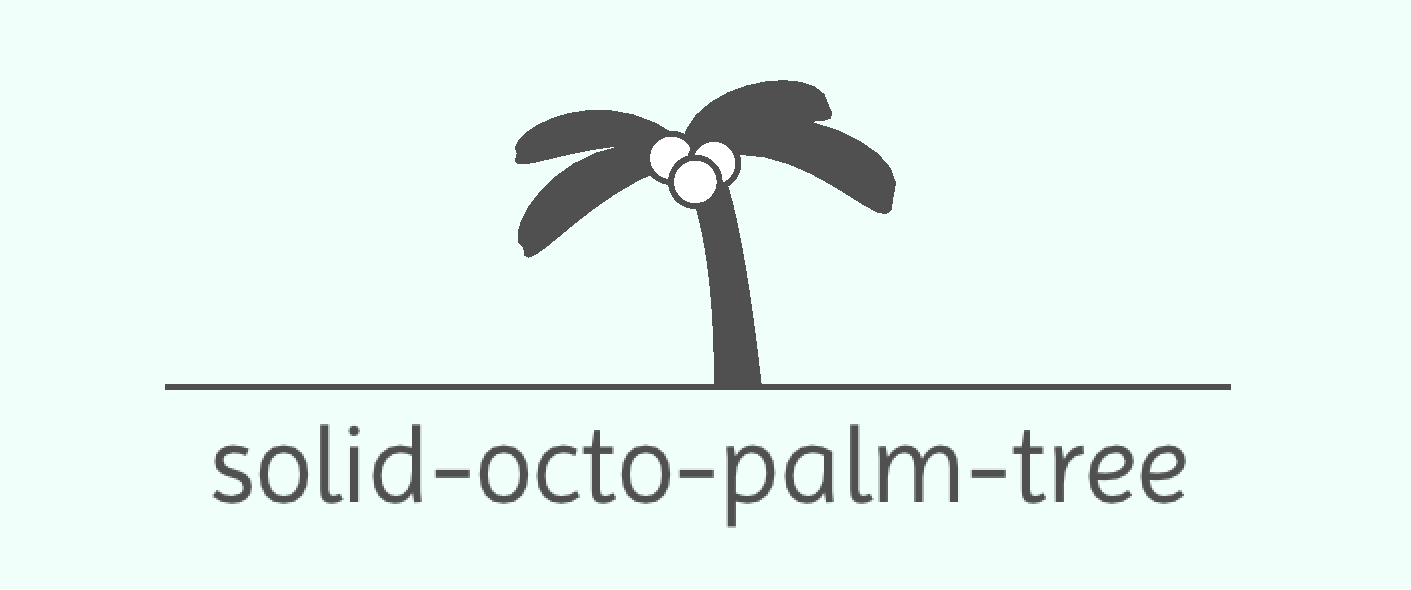
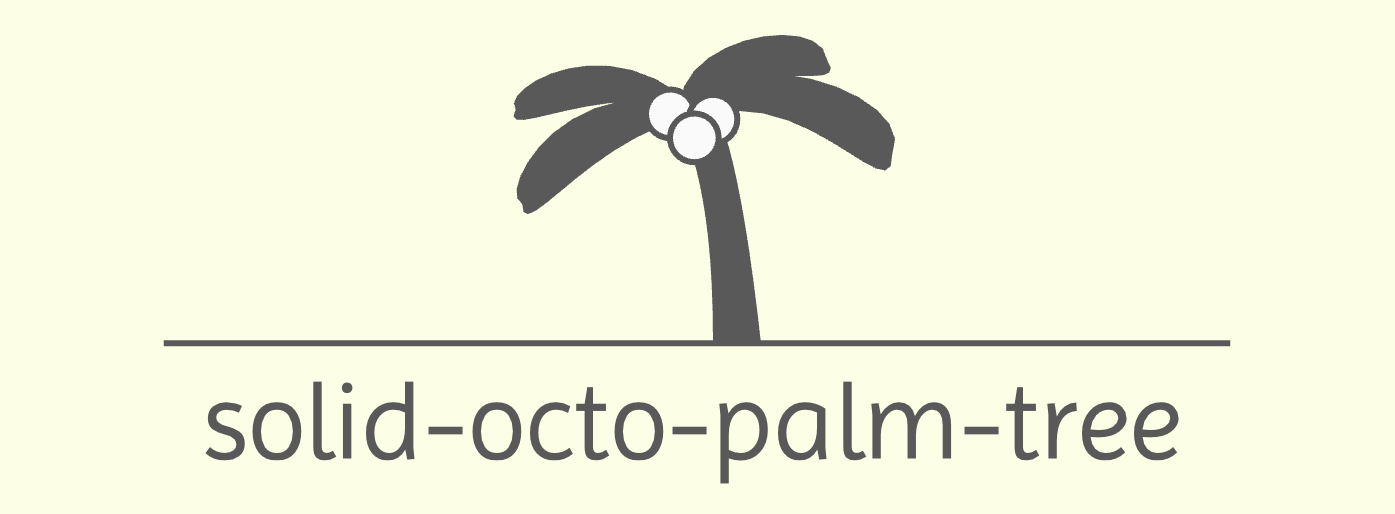
:art: Add palette

Changed region(s): [[0.0925, 0.0623, 0.8939, 0.6848], [0.1233, 0.716, 0.8631, 0.9339]]

diff --git a/painter/pal.css b/painter/pal.css
@@ -1,0 +1,1 @@
+.main-color .palette-blue-1{background:#e6f7ff}.main-color .palette-blue-2{background:#bae7ff}.main-color .palette-blue-3{background:#91d5ff}.main-color .palette-blue-4{background:#69c0ff}.main-color .palette-blue-5{background:#40a9ff}.main-color .palette-blue-6{background:#1890ff}.main-color .palette-blue-7{background:#096dd9}.main-color .palette-blue-8{background:#0050b3}.main-color .palette-blue-9{background:#003a8c}.main-color .palette-blue-10{background:#002766}.main-color .palette-purple-1{background:#f9f0ff}.main-color .palette-purple-2{background:#efdbff}.main-color .palette-purple-3{background:#d3adf7}.main-color .palette-purple-4{background:#b37feb}.main-color .palette-purple-5{background:#9254de}.main-color .palette-purple-6{background:#722ed1}.main-color .palette-purple-7{background:#531dab}.main-color .palette-purple-8{background:#391085}.main-color .palette-purple-9{background:#22075e}.main-color .palette-purple-10{background:#120338}.main-color .palette-cyan-1{background:#e6fffb}.main-color .palette-cyan-2{background:#b5f5ec}.main-color .palette-cyan-3{background:#87e8de}.main-color .palette-cyan-4{background:#5cdbd3}.main-color .palette-cyan-5{background:#36cfc9}.main-color .palette-cyan-6{background:#13c2c2}.main-color .palette-cyan-7{background:#08979c}.main-color .palette-cyan-8{background:#006d75}.main-color .palette-cyan-9{background:#00474f}.main-color .palette-cyan-10{background:#002329}.main-color .palette-green-1{background:#f6ffed}.main-color .palette-green-2{background:#d9f7be}.main-color .palette-green-3{background:#b7eb8f}.main-color .palette-green-4{background:#95de64}.main-color .palette-green-5{background:#73d13d}.main-color .palette-green-6{background:#52c41a}.main-color .palette-green-7{background:#389e0d}.main-color .palette-green-8{background:#237804}.main-color .palette-green-9{background:#135200}.main-color .palette-green-10{background:#092b00}.main-color .palette-magenta-1{background:#fff0f6}.main-color .palette-magenta-2{background:#ffd6e7}.main-color .palette-magenta-3{background:#ffadd2}.main-color .palette-magenta-4{background:#ff85c0}.main-color .palette-magenta-5{background:#f759ab}.main-color .palette-magenta-6{background:#eb2f96}.main-color .palette-magenta-7{background:#c41d7f}.main-color .palette-magenta-8{background:#9e1068}.main-color .palette-magenta-9{background:#780650}.main-color .palette-magenta-10{background:#520339}.main-color .palette-red-1{background:#fff1f0}.main-color .palette-red-2{background:#ffccc7}.main-color .palette-red-3{background:#ffa39e}.main-color .palette-red-4{background:#ff7875}.main-color .palette-red-5{background:#ff4d4f}.main-color .palette-red-6{background:#f5222d}.main-color .palette-red-7{background:#cf1322}.main-color .palette-red-8{background:#a8071a}.main-color .palette-red-9{background:#820014}.main-color .palette-red-10{background:#5c0011}.main-color .palette-volcano-1{background:#fff2e8}.main-color .palette-volcano-2{background:#ffd8bf}.main-color .palette-volcano-3{background:#ffbb96}.main-color .palette-volcano-4{background:#ff9c6e}.main-color .palette-volcano-5{background:#ff7a45}.main-color .palette-volcano-6{background:#fa541c}.main-color .palette-volcano-7{background:#d4380d}.main-color .palette-volcano-8{background:#ad2102}.main-color .palette-volcano-9{background:#871400}.main-color .palette-volcano-10{background:#610b00}.main-color .palette-orange-1{background:#fff7e6}.main-color .palette-orange-2{background:#ffe7ba}.main-color .palette-orange-3{background:#ffd591}.main-color .palette-orange-4{background:#ffc069}.main-color .palette-orange-5{background:#ffa940}.main-color .palette-orange-6{background:#fa8c16}.main-color .palette-orange-7{background:#d46b08}.main-color .palette-orange-8{background:#ad4e00}.main-color .palette-orange-9{background:#873800}.main-color .palette-orange-10{background:#612500}.main-color .palette-gold-1{background:#fffbe6}.main-color .palette-gold-2{background:#fff1b8}.main-color .palette-gold-3{background:#ffe58f}.main-color .palette-gold-4{background:#ffd666}.main-color .palette-gold-5{background:#ffc53d}.main-color .palette-gold-6{background:#faad14}.main-color .palette-gold-7{background:#d48806}.main-color .palette-gold-8{background:#ad6800}.main-color .palette-gold-9{background:#874d00}.main-color .palette-gold-10{background:#613400}.main-color .palette-yellow-1{background:#feffe6}.main-color .palette-yellow-2{background:#ffffb8}.main-color .palette-yellow-3{background:#fffb8f}.main-color .palette-yellow-4{background:#fff566}.main-color .palette-yellow-5{background:#ffec3d}.main-color .palette-yellow-6{background:#fadb14}.main-color .palette-yellow-7{background:#d4b106}.main-color .palette-yellow-8{background:#ad8b00}.main-color .palette-yellow-9{background:#876800}.main-color .palette-yellow-10{background:#614700}.main-color .palette-lime-1{background:#fcffe6}.main-color .palette-lime-2{background:#f4ffb8}.main-color .palette-lime-3{background:#eaff8f}.main-color .palette-lime-4{background:#d3f261}.main-color .palette-lime-5{background:#bae637}.main-color .palette-lime-6{background:#a0d911}.main-color .palette-lime-7{background:#7cb305}.main-color .palette-lime-8{background:#5b8c00}.main-color .palette-lime-9{background:#3f6600}.main-color .palette-lime-10{background:#254000}.main-color .palette-geekblue-1{background:#f0f5ff}.main-color .palette-geekblue-2{background:#d6e4ff}.main-color .palette-geekblue-3{background:#adc6ff}.main-color .palette-geekblue-4{background:#85a5ff}.main-color .palette-geekblue-5{background:#597ef7}.main-color .palette-geekblue-6{background:#2f54eb}.main-color .palette-geekblue-7{background:#1d39c4}.main-color .palette-geekblue-8{background:#10239e}.main-color .palette-geekblue-9{background:#061178}.main-color .palette-geekblue-10{background:#030852}.main-color .palette-gray-1{background:#fff}.main-color .palette-gray-2{background:#fafafa}.main-color .palette-gray-3{background:#f5f5f5}.main-color .palette-gray-4{background:#e8e8e8}.main-color .palette-gray-5{background:#d9d9d9}.main-color .palette-gray-6{background:#bfbfbf}.main-color .palette-gray-7{background:#8c8c8c}.main-color .palette-gray-8{background:#595959}.main-color .palette-gray-9{background:#262626}.main-color .palette-gray-10{background:#000}

diff --git a/painter/pal.js b/painter/pal.js
@@ -1,0 +1,25 @@
+// https://github.com/ant-design/ant-design/tree/master/components/style/color
+const fs = require('fs');
+
+const s = fs.readFileSync('pal.css').toString();
+const r = /palette-(.+?)\{background:#(.+?)\}/g;
+
+console.log(
+`#ifndef _PAL_H_
+#define _PAL_H_
+
+#define OuO(_r, _g, _b) ((Color){0x##_r, 0x##_g, 0x##_b, 255})
+`);
+
+for (let m = r.exec(s); m !== null; m = r.exec(s)) {
+  const name = m[1].toUpperCase().replace('-', '_');
+  let val = m[2];
+  if (val.length === 3) {
+    val = [0, 1, 2].map((i) => val[i].repeat(2)).join('');
+  }
+  console.log('#define ' + name + ' '.repeat(12 - name.length) +
+    `OuO(${val.substr(0, 2)}, ${val.substr(2, 2)}, ${val.substr(4, 2)})`);
+}
+
+console.log(`
+#endif`);

diff --git a/painter/pal.h b/painter/pal.h
@@ -1,0 +1,137 @@
+#ifndef _PAL_H_
+#define _PAL_H_
+
+#define OuO(_r, _g, _b) ((Color){0x##_r, 0x##_g, 0x##_b, 255})
+
+#define BLUE_1      OuO(e6, f7, ff)
+#define BLUE_2      OuO(ba, e7, ff)
+#define BLUE_3      OuO(91, d5, ff)
+#define BLUE_4      OuO(69, c0, ff)
+#define BLUE_5      OuO(40, a9, ff)
+#define BLUE_6      OuO(18, 90, ff)
+#define BLUE_7      OuO(09, 6d, d9)
+#define BLUE_8      OuO(00, 50, b3)
+#define BLUE_9      OuO(00, 3a, 8c)
+#define BLUE_10     OuO(00, 27, 66)
+#define PURPLE_1    OuO(f9, f0, ff)
+#define PURPLE_2    OuO(ef, db, ff)
+#define PURPLE_3    OuO(d3, ad, f7)
+#define PURPLE_4    OuO(b3, 7f, eb)
+#define PURPLE_5    OuO(92, 54, de)
+#define PURPLE_6    OuO(72, 2e, d1)
+#define PURPLE_7    OuO(53, 1d, ab)
+#define PURPLE_8    OuO(39, 10, 85)
+#define PURPLE_9    OuO(22, 07, 5e)
+#define PURPLE_10   OuO(12, 03, 38)
+#define CYAN_1      OuO(e6, ff, fb)
+#define CYAN_2      OuO(b5, f5, ec)
+#define CYAN_3      OuO(87, e8, de)
+#define CYAN_4      OuO(5c, db, d3)
+#define CYAN_5      OuO(36, cf, c9)
+#define CYAN_6      OuO(13, c2, c2)
+#define CYAN_7      OuO(08, 97, 9c)
+#define CYAN_8      OuO(00, 6d, 75)
+#define CYAN_9      OuO(00, 47, 4f)
+#define CYAN_10     OuO(00, 23, 29)
+#define GREEN_1     OuO(f6, ff, ed)
+#define GREEN_2     OuO(d9, f7, be)
+#define GREEN_3     OuO(b7, eb, 8f)
+#define GREEN_4     OuO(95, de, 64)
+#define GREEN_5     OuO(73, d1, 3d)
+#define GREEN_6     OuO(52, c4, 1a)
+#define GREEN_7     OuO(38, 9e, 0d)
+#define GREEN_8     OuO(23, 78, 04)
+#define GREEN_9     OuO(13, 52, 00)
+#define GREEN_10    OuO(09, 2b, 00)
+#define MAGENTA_1   OuO(ff, f0, f6)
+#define MAGENTA_2   OuO(ff, d6, e7)
+#define MAGENTA_3   OuO(ff, ad, d2)
+#define MAGENTA_4   OuO(ff, 85, c0)
+#define MAGENTA_5   OuO(f7, 59, ab)
+#define MAGENTA_6   OuO(eb, 2f, 96)
+#define MAGENTA_7   OuO(c4, 1d, 7f)
+#define MAGENTA_8   OuO(9e, 10, 68)
+#define MAGENTA_9   OuO(78, 06, 50)
+#define MAGENTA_10  OuO(52, 03, 39)
+#define RED_1       OuO(ff, f1, f0)
+#define RED_2       OuO(ff, cc, c7)
+#define RED_3       OuO(ff, a3, 9e)
+#define RED_4       OuO(ff, 78, 75)
+#define RED_5       OuO(ff, 4d, 4f)
+#define RED_6       OuO(f5, 22, 2d)
+#define RED_7       OuO(cf, 13, 22)
+#define RED_8       OuO(a8, 07, 1a)
+#define RED_9       OuO(82, 00, 14)
+#define RED_10      OuO(5c, 00, 11)
+#define VOLCANO_1   OuO(ff, f2, e8)
+#define VOLCANO_2   OuO(ff, d8, bf)
+#define VOLCANO_3   OuO(ff, bb, 96)
+#define VOLCANO_4   OuO(ff, 9c, 6e)
+#define VOLCANO_5   OuO(ff, 7a, 45)
+#define VOLCANO_6   OuO(fa, 54, 1c)
+#define VOLCANO_7   OuO(d4, 38, 0d)
+#define VOLCANO_8   OuO(ad, 21, 02)
+#define VOLCANO_9   OuO(87, 14, 00)
+#define VOLCANO_10  OuO(61, 0b, 00)
+#define ORANGE_1    OuO(ff, f7, e6)
+#define ORANGE_2    OuO(ff, e7, ba)
+#define ORANGE_3    OuO(ff, d5, 91)
+#define ORANGE_4    OuO(ff, c0, 69)
+#define ORANGE_5    OuO(ff, a9, 40)
+#define ORANGE_6    OuO(fa, 8c, 16)
+#define ORANGE_7    OuO(d4, 6b, 08)
+#define ORANGE_8    OuO(ad, 4e, 00)
+#define ORANGE_9    OuO(87, 38, 00)
+#define ORANGE_10   OuO(61, 25, 00)
+#define GOLD_1      OuO(ff, fb, e6)
+#define GOLD_2      OuO(ff, f1, b8)
+#define GOLD_3      OuO(ff, e5, 8f)
+#define GOLD_4      OuO(ff, d6, 66)
+#define GOLD_5      OuO(ff, c5, 3d)
+#define GOLD_6      OuO(fa, ad, 14)
+#define GOLD_7      OuO(d4, 88, 06)
+#define GOLD_8      OuO(ad, 68, 00)
+#define GOLD_9      OuO(87, 4d, 00)
+#define GOLD_10     OuO(61, 34, 00)
+#define YELLOW_1    OuO(fe, ff, e6)
+#define YELLOW_2    OuO(ff, ff, b8)
+#define YELLOW_3    OuO(ff, fb, 8f)
+#define YELLOW_4    OuO(ff, f5, 66)
+#define YELLOW_5    OuO(ff, ec, 3d)
+#define YELLOW_6    OuO(fa, db, 14)
+#define YELLOW_7    OuO(d4, b1, 06)
+#define YELLOW_8    OuO(ad, 8b, 00)
+#define YELLOW_9    OuO(87, 68, 00)
+#define YELLOW_10   OuO(61, 47, 00)
+#define LIME_1      OuO(fc, ff, e6)
+#define LIME_2      OuO(f4, ff, b8)
+#define LIME_3      OuO(ea, ff, 8f)
+#define LIME_4      OuO(d3, f2, 61)
+#define LIME_5      OuO(ba, e6, 37)
+#define LIME_6      OuO(a0, d9, 11)
+#define LIME_7      OuO(7c, b3, 05)
+#define LIME_8      OuO(5b, 8c, 00)
+#define LIME_9      OuO(3f, 66, 00)
+#define LIME_10     OuO(25, 40, 00)
+#define GEEKBLUE_1  OuO(f0, f5, ff)
+#define GEEKBLUE_2  OuO(d6, e4, ff)
+#define GEEKBLUE_3  OuO(ad, c6, ff)
+#define GEEKBLUE_4  OuO(85, a5, ff)
+#define GEEKBLUE_5  OuO(59, 7e, f7)
+#define GEEKBLUE_6  OuO(2f, 54, eb)
+#define GEEKBLUE_7  OuO(1d, 39, c4)
+#define GEEKBLUE_8  OuO(10, 23, 9e)
+#define GEEKBLUE_9  OuO(06, 11, 78)
+#define GEEKBLUE_10 OuO(03, 08, 52)
+#define GRAY_1      OuO(ff, ff, ff)
+#define GRAY_2      OuO(fa, fa, fa)
+#define GRAY_3      OuO(f5, f5, f5)
+#define GRAY_4      OuO(e8, e8, e8)
+#define GRAY_5      OuO(d9, d9, d9)
+#define GRAY_6      OuO(bf, bf, bf)
+#define GRAY_7      OuO(8c, 8c, 8c)
+#define GRAY_8      OuO(59, 59, 59)
+#define GRAY_9      OuO(26, 26, 26)
+#define GRAY_10     OuO(00, 00, 00)
+
+#endif

diff --git a/painter/main.c b/painter/main.c
@@ -48,7 +48,7 @@ static inline float easeCycle(float x, float period, float amplitude)
 
 void DrawMainScreen()
 {
-    ClearBackground(WHITE);
+    ClearBackground(GRAY_2);
 
 #define quq "Nothing for now   o(' ~ ')o"
     Vector2 sz = MeasureTextEx(font, quq, 64, 0);
@@ -66,12 +66,12 @@ void DrawIcon(Vector2 offset, float scale, float t)
     DrawLineEx(
         (Vector2){offset.x - 200 * scale * rate, offset.y},
         (Vector2){offset.x + 200 * scale * rate, offset.y},
-        3, DARKGRAY);
+        3, GRAY_8);
 
     rate = EaseElasticOut(Clamp(t, 0.3, 1.3) - 0.3, 0.3);
     GenerateAnchoredBezier(&TrunkScaled, Trunk, 3, 12,
         offset, (Vector2){0.5, 1}, 120 * scale, 120 * scale * rate, 0);
-    DrawPolyFilledConcave(TrunkScaled, 37, DARKGRAY);
+    DrawPolyFilledConcave(TrunkScaled, 37, GRAY_8);
 
     rate = EaseCubicOut((Clamp(t, 1.05, 1.25) - 1.05) * 5);
     if (rate > 1e-4) {
@@ -80,7 +80,7 @@ void DrawIcon(Vector2 offset, float scale, float t)
             (Vector2){offset.x + 2 * scale, offset.y - 86 * scale},
             (Vector2){1, 0.5}, 70 * scale * rate, 70 * scale * rate,
             0 + easeCycle(t, 2.51, 0.025));
-        DrawPolyFilledConcave(Leaf1Scaled, 25, DARKGRAY);
+        DrawPolyFilledConcave(Leaf1Scaled, 25, GRAY_8);
     }
 
     rate = EaseCubicOut((Clamp(t, 0.8, 1.05) - 0.8) * 4);
@@ -90,7 +90,7 @@ void DrawIcon(Vector2 offset, float scale, float t)
             (Vector2){offset.x + 7 * scale, offset.y - 86 * scale},
             (Vector2){1, 0.5}, 80 * scale * rate, 80 * scale * rate,
             -0.4 + easeCycle(t + 3, 3.51, 0.035));
-        DrawPolyFilledConcave(Leaf2Scaled, 25, DARKGRAY);
+        DrawPolyFilledConcave(Leaf2Scaled, 25, GRAY_8);
     }
 
     rate = EaseCubicOut((Clamp(t, 0.92, 1.17) - 0.92) * 4);
@@ -100,7 +100,7 @@ void DrawIcon(Vector2 offset, float scale, float t)
             (Vector2){offset.x - 6 * scale, offset.y - 82 * scale},
             (Vector2){0, 0.5}, 80 * scale * rate, 80 * scale * rate,
             +0.1 + easeCycle(t + 1, 3.38, 0.04));
-        DrawPolyFilledConcave(Leaf3Scaled, 25, DARKGRAY);
+        DrawPolyFilledConcave(Leaf3Scaled, 25, GRAY_8);
     }
 
     rate = EaseCubicOut((Clamp(t, 1.23, 1.41) - 1.23) * 5);
@@ -110,7 +110,7 @@ void DrawIcon(Vector2 offset, float scale, float t)
             (Vector2){offset.x - 6 * scale, offset.y - 82 * scale},
             (Vector2){0, 0.5}, 60 * scale * rate, 60 * scale * rate,
             -0.4 + easeCycle(t + 2, 2.71, 0.03));
-        DrawPolyFilledConcave(Leaf4Scaled, 25, DARKGRAY);
+        DrawPolyFilledConcave(Leaf4Scaled, 25, GRAY_8);
     }
 
     t -= 2.5;
@@ -128,30 +128,30 @@ void DrawIcon(Vector2 offset, float scale, float t)
             p1 = Vector2Rotate(p1, o, rate / 100);
             p2 = Vector2Rotate(p2, o, rate / 100);
             p3 = Vector2Rotate(p3, o, rate / 100);
-            DrawTriangle(p2, p1, p3, WHITE);
-            DrawLineEx(p1, p2, 3, DARKGRAY);
-            DrawLineEx(p2, p3, 3, DARKGRAY);
-            DrawLineEx(p3, p1, 3, DARKGRAY);
+            DrawTriangle(p2, p1, p3, GRAY_2);
+            DrawLineEx(p1, p2, 3, GRAY_8);
+            DrawLineEx(p2, p3, 3, GRAY_8);
+            DrawLineEx(p3, p1, 3, GRAY_8);
         }
 
         rate = EaseElasticOut(Min(t, 0.25) * 4, 0.8);
-        DrawCircleFilledOutline(p1, 8 * rate * scale, WHITE, DARKGRAY);
+        DrawCircleFilledOutline(p1, 8 * rate * scale, GRAY_2, GRAY_8);
         rate = EaseElasticOut((Clamp(t, 0.07, 0.35) - 0.07) * 4, 0.8);
-        DrawCircleFilledOutline(p2, 8 * rate * scale, WHITE, DARKGRAY);
+        DrawCircleFilledOutline(p2, 8 * rate * scale, GRAY_2, GRAY_8);
         rate = EaseElasticOut((Clamp(t, 0.12, 0.35) - 0.12) * 4, 0.8);
-        DrawCircleFilledOutline(p3, 8 * rate * scale, WHITE, DARKGRAY);
+        DrawCircleFilledOutline(p3, 8 * rate * scale, GRAY_2, GRAY_8);
 
         if (t >= 3) {
             DrawMainScreen();
             if (t < 3.25)
-                DrawRectangle(0, 0, SCR_W, SCR_H, Fade(WHITE, (3.25 - t) * 4));
+                DrawRectangle(0, 0, SCR_W, SCR_H, Fade(GRAY_2, (3.25 - t) * 4));
         }
     }
 }
 
 static inline void DrawStartupScreen()
 {
-    ClearBackground((Color){240, 255, 249});
+    ClearBackground(LIME_1);
 
     float t = GetTime();
     if (t < 0.3) return;
@@ -162,7 +162,7 @@ static inline void DrawStartupScreen()
     Vector2 sz = MeasureTextEx(font, REPO_TITLE, 64, 0);
     DrawTextEx(font, REPO_TITLE,
         (Vector2){(SCR_W - sz.x) / 2, SCR_H * (0.52 + rate * 0.02)},
-        64, 0, Fade(DARKGRAY, rate));
+        64, 0, Fade(GRAY_8, rate));
 
     DrawIcon((Vector2){SCR_W / 2, SCR_H * (0.58 - rate * 0.05)}, SCR_W / 900.0, t);
 }

diff --git a/painter/global.h b/painter/global.h
@@ -6,6 +6,15 @@
 #define SCR_W   1200
 #define SCR_H   720
 
+#include "pal.h"
+
+#define ColorLerp(__a, __b, __t) ((Color) { \
+    ((__a).r + (int)((__t) * ((__b).r - (__a).r) + 0.5)), \
+    ((__a).g + (int)((__t) * ((__b).g - (__a).g) + 0.5)), \
+    ((__a).b + (int)((__t) * ((__b).b - (__a).b) + 0.5)), \
+    ((__a).a + (int)((__t) * ((__b).a - (__a).a) + 0.5)), \
+})
+
 // global.c
 
 extern Font font;
